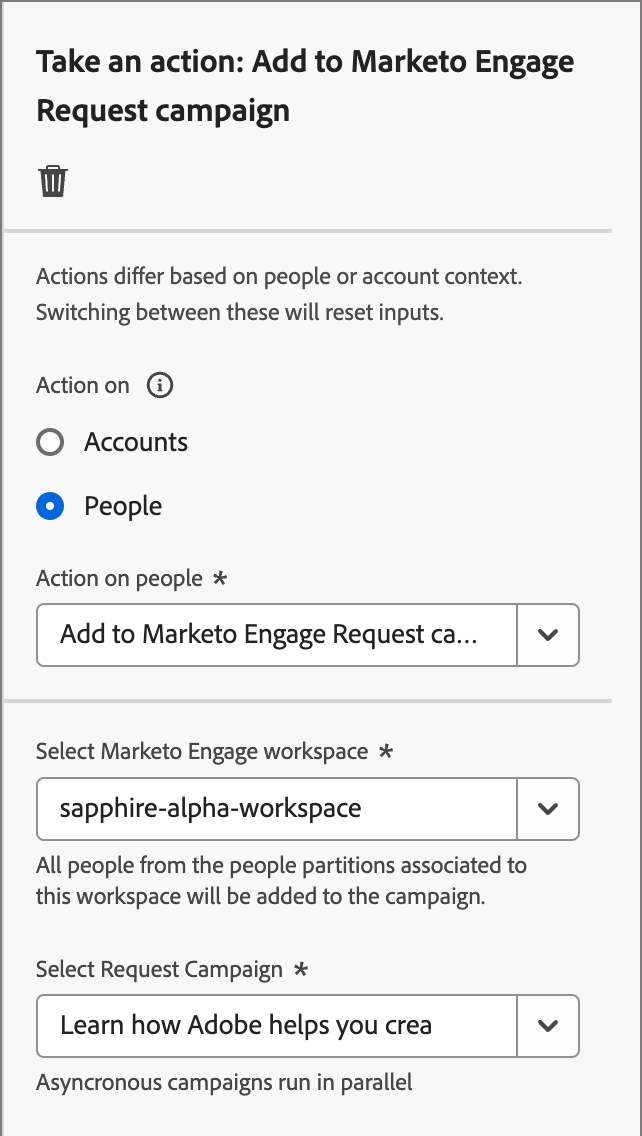
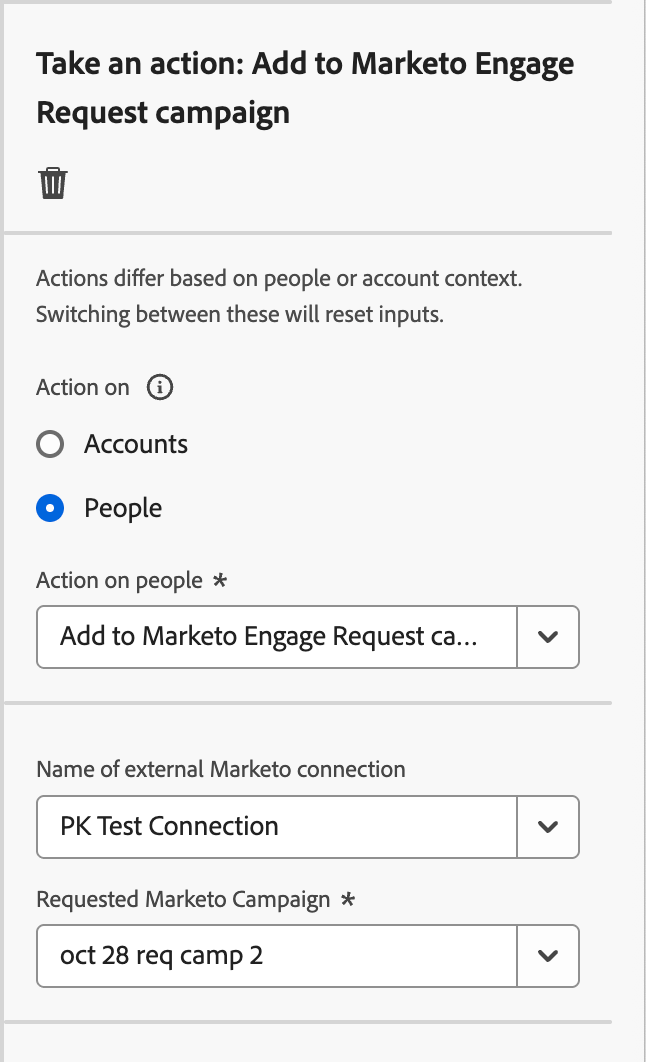
SPHR-22715, update marketo journey actions for m1.5

diff --git a/help/user/journeys/action-nodes.md b/help/user/journeys/action-nodes.md
@@ -90,10 +90,13 @@ Use an action on people when you want to apply a change to all people on the nod
 | | [!UICONTROL Remove from Buying Group] | Select solution interest |
 | | [!UICONTROL Send email] | Create new email<br/>Select email from Marketo Engage |
 | | [!UICONTROL Send SMS] | Create SMS |
-| [Marketo Engage](#marketo-engage-actions) | [!UICONTROL Add to List]| Select Marketo Engage workspace<br/>List name |
-| | [!UICONTROL Add to Marketo Engage Request campaign] | Select Marketo Engage workspace<br/>Select Request campaign |
-| | [!UICONTROL Change People Partition in Marketo Engage] | New partition |
-| | [!UICONTROL Remove from List] | Select Marketo Engage workspace<br/>List name |
+| [Marketo Engage](#marketo-engage-actions) | [!UICONTROL Add to Marketo Engage Request campaign] | Select Marketo Engage workspace<br/>Select Request campaign |
+| | [!UICONTROL Add to Marketo list]| Select name of external Marketo connection <br/>List name |
+| | [!UICONTROL Remove from Marketo list] | Select name of external Marketo connection <br/>List name |
+
+>[!NOTE]
+>
+>The _[!UICONTROL Change People Partition in Marketo Engage]_ action is deprecated for the 2025.10 release and not available on the simplified architecture for Journey Optimizer B2B Edition.
 
 ### Add a people-based action
 
@@ -213,43 +216,41 @@ Use this action to send an SMS message. You can create, personalize, and preview
 
 ### Marketo Engage actions
 
-The Marketo Engage people-based actions are designed to coordinate your account-based marketing orchestration in Journey Optimizer B2B Edition with your lead-based marketing efforts in Marketo Engage. Use these actions to orchestrate list membership, people partitions, and request campaigns.
+The Marketo Engage people-based actions are designed to coordinate your account-based marketing orchestration in Journey Optimizer B2B Edition with your lead-based marketing efforts in Marketo Engage. Use these actions to orchestrate list membership and request campaigns.
 
-+++[!UICONTROL Add to list]
+>[!NOTE]
+>
+>The Marketo Engage actions require configured integration with one or more external Marketo Engage instances. <!-- For detailed information about configuring these connections, see #. -->
 
-Use this action to add people to a [Static List](https://experienceleague.adobe.com/en/docs/marketo/using/product-docs/core-marketo-concepts/smart-lists-and-static-lists/static-lists/understanding-static-lists){target="_blank"} in Marketo Engage. 
+For example, you might want to suppress campaigns in Marketo Engage for people that are part of buying groups in Journey Optimizer B2B Edition. In this case, you can create a static list in Marketo Engage specifically for the solution interest. Then, on a split path by buying group, use the _Add to Marketo list_ action from a journey node. This action adds buying group members to a particular static list in a connected Marketo Engage instance. Then, use the solution interest focused static list for a smart list filter in Marketo Engage.
 
-First select the workspace in the connected Marketo Engage instance. Next, select the list name.
-
-![Take an action - Add to list](./assets/node-action-add-to-list-options.png){width="300"}
-
-+++
-
-+++[!UICONTROL Add to Marketo Request campaign]
++++[!UICONTROL Add to Marketo Engage Request campaign]
 
 Use this action to add people profiles to a [request campaign](https://experienceleague.adobe.com/en/docs/marketo/using/product-docs/core-marketo-concepts/smart-campaigns/flow-actions/request-campaign){target="_blank"} in Marketo Engage.
 
-First select the workspace in the connected Marketo Engage instance. Next, select the request campaign name.
+First, select a connected Marketo Engage instance. Next, select the request campaign name.
 
-![Take an action - Add to Marketo Request campaign](./assets/node-action-add-to-request-campaign-options.png){width="300"}
-
-+++
-
-+++[!UICONTROL Change people partition in Marketo Engage]
-
-Use this action to change the [person partition](https://experienceleague.adobe.com/en/docs/marketo/using/product-docs/administration/workspaces-and-person-partitions/understanding-workspaces-and-person-partitions#person-partitions){target="_blank"} in Marketo Engage. 
-
-![Take an action - Change people partition in Marketo Engage](./assets/node-action-change-people-partition-options.png){width="300"}
+![Take an action - Add to Marketo Engage Request campaign](./assets/node-action-add-to-request-campaign-options.png){width="300"}
 
 +++
 
-+++[!UICONTROL Remove from list]
++++[!UICONTROL Add to Marketo list]
 
-Use this action to remove people from a [Static List](https://experienceleague.adobe.com/en/docs/marketo/using/product-docs/core-marketo-concepts/smart-lists-and-static-lists/static-lists/understanding-static-lists){target="_blank"} in Marketo Engage. First select the workspace in the connected Marketo Engage instance. Next, select the list name.
+Use this action to add people to a [Static List](https://experienceleague.adobe.com/en/docs/marketo/using/product-docs/core-marketo-concepts/smart-lists-and-static-lists/static-lists/understanding-static-lists){target="_blank"} in Marketo Engage. 
 
-![Take an action - Remove from list](./assets/node-action-remove-from-list-options.png){width="300"}
+First, select a connected Marketo Engage instance. Next, select the list name.
 
-If the person profile was not a member of the Smart List, the action is ignored.
+![Take an action - Add to Marketo list](./assets/node-action-add-to-list-options.png){width="300"}
+
++++
+
++++[!UICONTROL Remove from Marketo list]
+
+Use this action to remove people from a [Static List](https://experienceleague.adobe.com/en/docs/marketo/using/product-docs/core-marketo-concepts/smart-lists-and-static-lists/static-lists/understanding-static-lists){target="_blank"} in Marketo Engage. 
+
+First, select a connected Marketo Engage instance. Next, select the list name.
+
+![Take an action - Remove from Marketo list](./assets/node-action-remove-from-list-options.png){width="300"}
 
 +++
 

diff --git a/help/user/buying-groups/marketo-engage-smart-list-buying-group-filters.md b/help/user/buying-groups/marketo-engage-smart-list-buying-group-filters.md
@@ -13,7 +13,7 @@ exl-id: b137e787-808e-4d36-8e8b-a1c7b999f8a2
 >
 >With the [simplified architecture](../simplified-architecture.md) for Journey Optimizer B2B Edition, the buying group filters are no longer available in a connected Marketo Engage instance.</br></br>
 >
->As an alternative, you can create a static list for each solution interest and then use the _Add to Marketo static list_ action from a journey node. This action adds buying group members to a particular static list in a connected Marketo Engage instance. Then, use the  solution interest focused static list for a smart list filter.
+>As an alternative, you can create a static list for each solution interest and then [use the _Add to Marketo list_ action](../journeys/action-nodes.md#marketo-engage-actions) from a journey node. This action adds buying group members to a particular static list in a connected Marketo Engage instance. Then, use the  solution interest focused static list for a smart list filter.
 
 As a Marketer, you might want to suppress campaigns in Marketo Engage for people that are part of buying groups in Journey Optimizer B2B Edition. You can also inform the lead scoring workflows in Marketo Engage using information about the leads associated with buying groups. For example:
 
